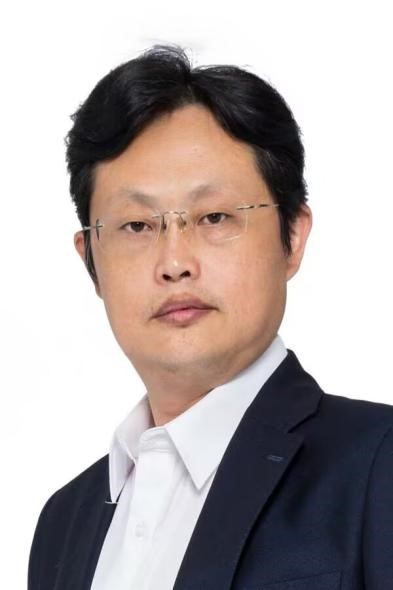
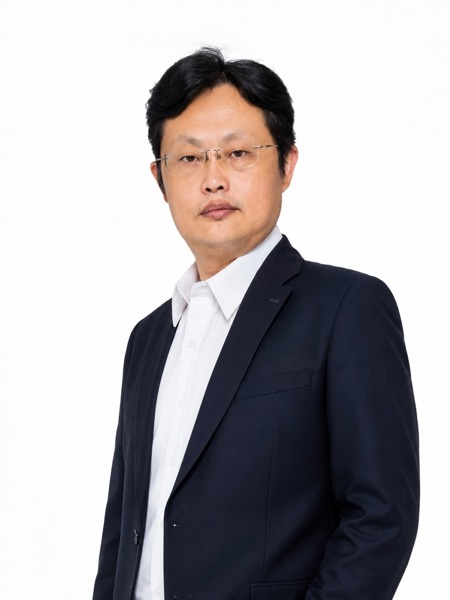
feat(academic view): 优化词云布局与视觉效果
1. 调整词云尺寸计算逻辑，根据文本字数动态适配宽高
2. 优化文字排版与动画延迟设置，修复hover动画冲突
3. 更新背景图适配方式，调整样式细节提升展示效果
4. 替换了文传表的mock素材图片

diff --git a/frontend/src/views/AcademicView.vue b/frontend/src/views/AcademicView.vue
@@ -93,10 +93,13 @@ const createWordCloud = (words) => {
     const { text, weight } = wordObj
     const slot = bambooLayoutSlots[i]
     
+    const charCount = text.length
     // --- 视觉特征映射 ---
-    const baseHeight = 136 + weight * 282
-    const baseWidth = 16 + weight * 34
-    const baseFontSize = 10 + weight * 24
+    const baseFontSize = Math.max(12, 10 + weight * 22)
+    // 高度根据字数决定，每个字占 fontSize * 2，再加上下内边距
+    const baseHeight = charCount * (baseFontSize * 2) + 24
+    // 宽度随高度增长但长词比例更高，竹简更修长
+    const baseWidth = Math.max(10, baseHeight / (3.5 + charCount * 0.55))
     const baseOpacity = 0.14 + weight * 0.86
 
     const leftPct = slot.left
@@ -122,8 +125,7 @@ const createWordCloud = (words) => {
     return {
       text, 
       left: `clamp(calc(${width}px / 2 + 16px), ${leftPct}%, calc(100% - ${width}px / 2 - 16px))`, 
-      // 底部放宽到 70px，顶部放宽到 height 的 75%，允许轻微溢出边界以打破"平滑切刀"的直线死板感
-      bottom: `clamp(70px, ${bottomPct}%, calc(100% - ${height}px * 0.75))`, 
+      bottom: `clamp(70px, ${bottomPct}%, calc(100% - ${height}px))`, 
       height: `${height}px`, 
       width: `${width}px`, 
       fontSize: `${fontSize}px`, 
@@ -434,6 +436,9 @@ function goExpert(id) {
   transform-origin: center center;
   overflow: hidden;
   cursor: pointer;
+  animation:
+    slip-entrance 1.5s cubic-bezier(0.25, 0.8, 0.25, 1) both;
+  animation-delay: var(--entrance-delay);
 }
 
 .word-rect-inner {
@@ -445,6 +450,7 @@ function goExpert(id) {
   display: flex;
   align-items: center;
   justify-content: center;
+  overflow: hidden;
   color: var(--color-primary, #842130);
   font-weight: bold;
   letter-spacing: 6px;
@@ -455,9 +461,8 @@ function goExpert(id) {
     drop-shadow(1px 2px 2px rgba(0, 0, 0, 0.10));
   
   animation: 
-    slip-entrance 1.5s cubic-bezier(0.25, 0.8, 0.25, 1) both,
     slip-float 6s ease-in-out infinite alternate;
-  animation-delay: var(--entrance-delay), calc(1.5s + var(--float-delay));
+  animation-delay: calc(1.5s + var(--float-delay));
   transition: all 0.4s cubic-bezier(0.25, 0.46, 0.45, 0.94);
   
   -webkit-mask-image: linear-gradient(to bottom, transparent 2%, black 15%, black 85%, transparent 98%);
@@ -466,10 +471,11 @@ function goExpert(id) {
 
 .word-rect:hover {
   z-index: 99 !important;
+  animation-play-state: paused;
 }
 
 .word-rect:hover .word-rect-inner {
-  animation-play-state: paused, paused;
+  animation-play-state: paused;
   transform: scale(1.03) translateY(-2px) !important;
   opacity: 1 !important;
   filter: drop-shadow(6px 10px 16px rgba(132, 33, 48, 0.35)) drop-shadow(2px 4px 4px rgba(0, 0, 0, 0.25));
@@ -483,7 +489,7 @@ function goExpert(id) {
   width: 100%;
   height: 100%;
   box-sizing: border-box;
-  object-fit: fill;
+  object-fit: cover;
   z-index: 0;
   pointer-events: none;
 }
@@ -496,7 +502,8 @@ function goExpert(id) {
   font-family: "TengXiangFanXiaoGeJianDu", "STKaiti", "SimSun", serif;
   font-weight: 500;
   text-shadow: 1px 1px 0px rgba(255, 255, 255, 0.4);
-  max-height: 90%;
+  max-height: 100%;
+  white-space: nowrap;
   overflow: hidden;
   pointer-events: none;
   transform: scaleX(0.76);
